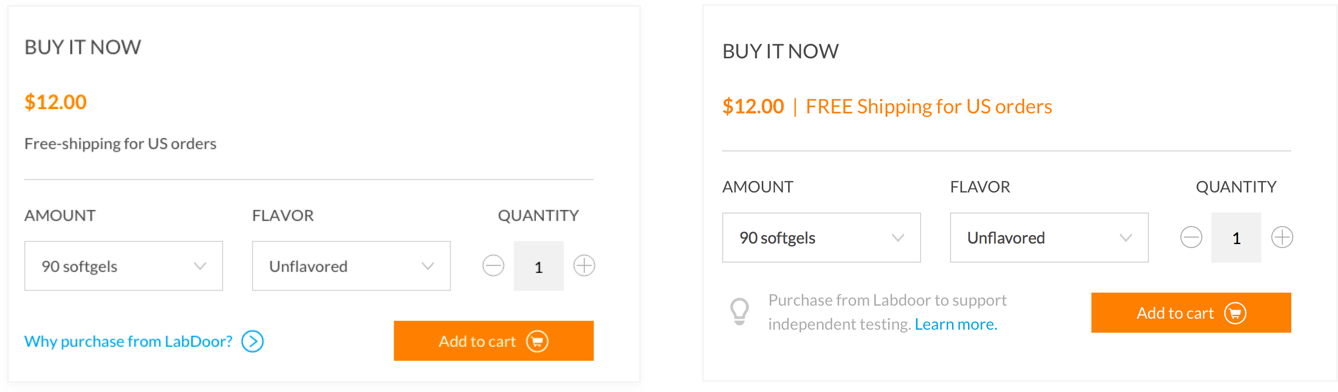
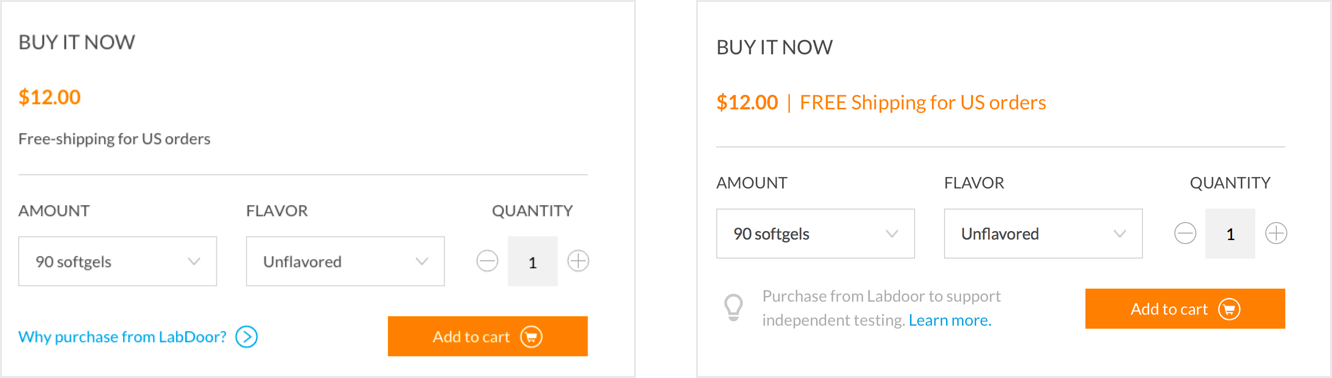
Testing out labdoor page, putting 60% of the content

diff --git a/labdoor.html b/labdoor.html
@@ -57,9 +57,9 @@ $(document).ready(function() {
             <a href="index.html">Sherzod</a>
         </div>    
           <ul id="ulnav" style="font-weight:700;">
-            <a  class="nav" href="#work"><li><b>WORK</b></li></a> 
-            <a  class="nav" href="http://sherzod.co/index.html#about"><li><b> ABOUT</b></li></a> 
-            <a  class="nav" id="contact" href="mailto:sherzoduix@gmail.com"><li><b>CONTACT</b></li></a>
+            <a  class="nav" href="#work"><li class="n"><b>WORK</b></li></a> 
+            <a  class="nav" href="http://sherzod.co/index.html#about"><li class="n"><b> ABOUT</b></li></a> 
+            <a  class="nav" id="contact" href="mailto:sherzoduix@gmail.com"><li class="n"><b>CONTACT</b></li></a>
           </ul>
     </div> 
   </div>
@@ -78,12 +78,12 @@ $(document).ready(function() {
 
     </div> -->
 
-    <div class="row">
-      <p class="four columns" style="text-align:left; padding-left:;"> 
+    <div class="row" style="margin-bottom: -2%;">
+      <p class="four columns" style="text-align:left; margin-right:8%;"> 
         <b class="t">ROLE:</b>
         <br>Product Designer
       </p>
-      <p class="three columns" style="text-align:left; padding-left:6%;">
+      <p class="three columns" style="text-align:left; ">
         <b class="t">DATES:</b> 
         <br>
         2015-2016
@@ -92,48 +92,158 @@ $(document).ready(function() {
 
     <div class="nine columns">  
       <h3>About Labdoor</h3>     
-      <h5 class="h5">The Problem</h5>
+      <h5 class="h5 row">The Problem</h5>
       <p class="">
         If you’re trying to find a supplement in the US you may end up with a low quality and sometimes harmful product. The problem is that supplements are generally considered a safe substance by FDA, thus have low quality control standard.
       </p>
       <p class=""> 
         <a class="u" href="http://thenextweb.com/apps/2014/08/01/best-ios-apps-july/">Labdoor</a> is a supplement marketplace. The goal is to be the resource where people go to find, research and buy the best supplements. Labdoor tests supplements for quality and ranks them so it’s easier for a consumer to choose the best one.
       </p>
-      <h5 class="h5">My Role</h5>
+      <h5 class="h5 row">My Role</h5>
       <p>
-        At Labdoor I was involved in designing various project around the product. From redesigning the entire enterprise website and improving the current consumer site, to desining logos, infographics and print. It was a somewhat fun and unusual experience for me because I got to work on a lot of little projects around the product rather than focusing on one core product. I will try to summarize some of the major projects I’ve worked on at Labdoor.
+        At Labdoor I was involved in designing various project around the product. From redesigning the entire enterprise website and improving the current consumer site, to designing logos, infographics and print. It was a somewhat fun and unusual experience for me because I got to work on a lot of little projects around the product rather than focusing on one core product. I will try to summarize some of the major projects I’ve worked on at Labdoor.
       </p>
       <h3>Current Website Improvements </h3>
       <p>
-        When I joined, the website was just redesigned. But as we know, even after a fresh redesign we can still find a few of flaws/defects/shortcomings. Category and product pages felt a little messy, lacked focus and guidance. We investigated further and validated our assumtions through internal and external feedback, and user research. We found a few things that needed to be fixed on our product page and category page.
+        When I joined, the website was just redesigned. But as we know, even after a fresh redesign we can still find a few of flaws/defects/shortcomings. Category and product pages felt a little messy, lacked focus and guidance. We investigated further and validated our assumptions through internal and external feedback, and user research. We found a few things that needed to be fixed on our product page and category page.
       </p> 
       <img class="" src="images/labdoor-w-product-before.png"></img>
       <h5 class="captionbottom"><center>Before</center></h5>
       <p>
-        I noticied our product page had way too many buttons and features. Each button looked like a primary button on the page. The buttons were fighting for attention while only a few of them serving a real purpose. Due to engineering and time constraints we weren’t able to remove all of them at once. As a quick fix, we removed fill from the secondary buttons so they draw less attention to help the user navigate towards promiment actions on the page.
+        I noticed our product page had way too many buttons and features. Each button looked like a primary button on the page. The buttons were fighting for attention while only a few of them serving a real purpose. Due to engineering and time constraints we weren't able to remove all of them at once. As a quick fix, we removed fill from the secondary buttons so they draw less attention to help the user navigate towards prominent actions on the page.
       </p>
       <img class="" src="images/labdoor-w-product-after.png"></img>
       <h5 class="captionbottom"><center>After</center></h5>
       <p>
-        For many people it was unclear why buy through Labdoor and pay extra. The explanation needed to be a little more informative. Some people kept asking if we offer free shipping. Although we had the text “Free shipping” right under the price tag, we had to make sure to make it's easily seen as well. While researching similar interaction in other products I’ve found out that almost any e-commerse website uses “FREE Shipping” - the word “free” is capitalized. Changing that little detail - putting it on the same line with price tag, and switching color - really made a diffrence. Since the change, we haven’t heard of any compalaints and confusions.
+        For many people it was unclear why buy through Labdoor and pay extra. The explanation needed to be a little more informative. Some people kept asking if we offer free shipping. Although we had the text “Free shipping” right under the price tag, we had to make sure to make it's easily seen as well. While researching similar interaction in other products I’ve found out that almost any e-commerce website uses “FREE Shipping” - the word “free” is capitalized. Changing that little detail - putting it on the same line with price tag, and switching color - really made a difference. Since the change, we haven’t heard of any complaints and confusions.
       </p>
       <img class="" src="images/labdoor-w-product-free.png"></img>
       <h5 class="captionbottom"><center>Before and After</center></h5>  
       <p>
         Based on feedback it was more relevant for people to see related categories rather than related products. We've found out that even when a person sees related ranked products she is less likely to explore it, and would rather go back to see full list.
       </p>    
-
-
-
-
+      <img class="" src="images/labdoor-w-product-relatedBefore.png"></img>
+      <h5 class="captionbottom"><center>Before</center></h5>  
+      <img class="" src="images/labdoor-w-product-relatedAfter.png"></img>
+      <h5 class="captionbottom"><center>After</center></h5>  
+      <p>
+        While working on a few projects simultaneously and focusing on details, it’s important to look at a bigger picture and check basics such as accessibility and consistency. We always make sure all changes perform well across web and mobile devices as well as different browsers.
+      </p> 
+    </div>
+      <img class="u-full-width" src="images/labdoor-w-responsive.png"></img>
+    <div class="nine columns">
+      <p>
+      Last but not least, new supplement categories are released every 6-8 weeks. Each one needs new custom icon. Here is are some of these icons I’ve designed for categories.
+      </p>
+      <img class="" src="images/labdoor-w-icons.png"></img>
+      <h5 class="captionbottom"><center></center></h5>  
+    </div>
+    <div class="nine columns">
+      <h3>Magazine</h3>
+    </div>
+      <img class="u-full-width column" style="margin-bottom:1.4%;" src="images/labdoor-infogarphics.png"></img>
+    <div class="nine columns">  
+      <p>
+        Magazine is Labdoor’s online resource to educate and inform people. It’s made in collaboration with editor and researcher at Labdoor. Along the way we have produced a number of infographics, science researches and data visualizations. Having no experience with infographic before, it was great not only to learn and practice data visualization design but also to educate myself on many health related topics.
+      </p>
+      <img class="" src="images/labdoor-garciniaChart.png"></img>
+    </div>
+    <div class="nine columns"> 
+      <h3>Print</h3>
+      <p>
+        <em>(Yay, I got to practice print design!)</em>
+      </p>
+      <p>
+        Haven’t been designing for print for over 5 years it was a exciting to get back at it and remind myself how to do it. Working on print makes me appreciate how spoiled we are with pushing digital products without making sure things are done 100% right. Hey, we can always go back and re-do it, then push it live again, right?
+      </p>
+      <p>
+        Print is quite the opposite. Check your work 700 times before sending to print shop. Mistakes are not allowed.
+      </p>
+      <p>
+        As for the process - it’s somewhat similar to my digital design workflow, but as mentioned earlier - the handoff process is quite different. First, understand the message we’re conveying with the brochure, understand the problem and the context. Research the best way to execute, best practices, best ways to structure the content. Then wireframe, explore different layout, get feedback, execute, team feedback, iterate, ship.  (I’m ridiculously summarizing here.)
+      </p>
+      <img class="" src="images/labdoor-cover-iterations.png"></img>
+      <h5 class="captionbottom"><center>Brochure cover iterations</center></h5>
+      <p>
+        After we’ve decided on copy, content structure, and had a sense for visual direction it was important to iterate and explore to find best layout to present the content. I’ve done most of the work of the work in Illustrator and polished design details with InDesign.
+      </p>
+      <img class="u-full-width" style="" src="images/labdoor-brochureFinals.png"></img>
+      <h5 class="captionbottom"><center>Final Results</center></h5>
+      <h5 class="h5">Constraints and Limitations</h5>
+      <p>
+        One of the challenges while designing the brochure was trying to put all the content on a somewhat limited amount of space. How can we have all the text and the graphics on just a few pages? It came down to prioritize either content or aesthetic and readability. We decided to reduce the font size and go with full page width lines of text, but it was worth it to properly convey the message.
+      </p>
+      <h5 class="h5">Seal of Approval</h5>
+      <p>
+        To earn consumers’ trust, supplement companies reach out to Labdoor to get certification which comes with Labdoor’s seal of approval. That’s one the ways Labdoor monetize. Labdoor already had a small round seal, but recently Labdoor has started offering different types of testing, thus more seals for each testing program. I’ve researched and considered designing product seals that you see on supplement and prescription medication. We were considering a few variations of the seals that you can see below. To skip the details I will jut say - the goal of the seal is to represent it’s purpose, the program while being consistent with the brand and look good with a few Labdoor seals together.
+      </p>
+      <img class="" src="images/labdoor-sealIterations.png"></img>
+      <h5 class="captionbottom"><center>Making seal iterations, and picking the best ones</center></h5>
+      <img class="" src="images/labdoor-seals-OriginalPuritySport@2x.png"></img>
+      <h5 class="captionbottom"><center>Final results</center></h5>
+    </div>
+    <div class="nine columns">
+      <h3>Enterprise Website</h3>      
+      <p>
+        Since I’ve joined, Labdoor grew from 3 million unique yearly visitors to 7 million. As Labdoor grew, we’ve developed new services and new ways companies can test with Labdoor to get their product certified. Our old enterprise website became outdated, and needed to be updated with new content. We also took this opportunity to experiment new look and feel of Labdoor.
+      </p>
+      <img class="" src="images/labdoor-w-oldEnterprise.png"></img>
+      <h5 class="captionbottom"><center>Old enterprise website</center></h5>
+      <p>
+        <b>The goal of the new Labdoor enterprise website is to clearly state Labdoor’s testing programs and to encourge a potential client to submit a supplement to test. Besides that show the benefits of each testing option and difference between each other. Remove all unncessary old content to reduce cognitie load. </b>
+      </p>
+      <p>
+        After many brainstorms and discussions with our product team we have figured the best way to frame/state/say about our new services in ways that are understanding? 
+      </p>
+      <p>
+        We considered many factors and uses cases when a person lands on Labdoor for Brands. To name a few considerations:
+      </p>
+      <p style="padding-left: 3%; line-height:1.8;">
+        • Where people are coming from?
+        <br>
+        • How did they found out about Labdoor?
+        <br>
+          •   What are their expectations about the product?
+        <br> 
+        •   What’s the message we’re sending?
+        <br>
+        •   How can effectively introduce our brand and testing options we offer?
+        
+        •   Is the content presented in a logical way?
+        <br>
+        •   Does the layout and presentation make the page easy to scan? Are we guiding the reader's attention?
+        <br>
+        •   What’s currently missing?
+      </p>
+      <p>
+        Interviewing our current as well as potential clients and getting early feedback answered many of our questions, saved time, and elimnated designing on pure assumptions.
+      </p>
+      <h5 class="h5">Comparative Assesment</h5>
+      <img class="" src="images/labdoor-competitors.png"></img>
+      <h5 class="captionbottom"><center>Similar brands that offer supplement certifactions</center></h5>
+      <p>
+        Comperative assesment a great way to find out what customers are expecting  to see on similar product, and how competitors structure and present their message.
+      </p>
+      <p>
+        Labdoor doesn’t really have direct competition. It’s mostly indirect in one way or another. Key findings:
+      </p>
+      <p style="padding-left: 3%; line-height:1.8;"> 
+        - other services who offer some sort of certifications have old content,
+        <br>
+        - their websites is cluttered and hard to navigative
+        <br> 
+        - “disregard” for visual design and overall consistensy.
+        <br> 
+        - as for customer aquasition strategy it appears that most of them get clients through an established network from the past.
+        <br>
+      </p>
+      <p>
+        Maybe so much unnesseary text helps them establish trust? Our research showed the opposite.
+      </p>
 
 
     </div>
-
-    
-
-
-   <br>
+    <br>
     <!--
     <div class="row">
       <img class="twelve columns" src="images/3dbin-mob-1.1.png" alt="3dbin"/>

diff --git a/css/style.css b/css/style.css
@@ -41,6 +41,8 @@ a:visited {text-decoration:none;
  margin: 0 auto;
  max-width: 100% !important;
  top: 0;
+ border: 1px;
+ border-bottom-color: black;
 }
 
 body { -webkit-font-smoothing: subpixel-antialiased; } /*This is to fix the postion fixed wierd font error:*/
@@ -78,21 +80,22 @@ ul{
     font-weight: 700;
 	float: right;
 	padding-bottom:0px ;
-	padding-top:18px;
+	padding-top:17px;
 	margin-top:13px;
     letter-spacing:.8px;
     position: relative;
     /*left:18px;*/
  	}	
      
-li{
+li.n {
  	display:inline;
  	padding: 35px 20px 38px 25px;
  	margin-left:-3px;
  	transition:color .0s ease-out, color .1s ease-in;
  	}
 
-li:hover{
+
+li.n:hover{
         color:#A4B4CD;
         transition:.3s;
 		}
@@ -120,7 +123,7 @@ h3 {
 	font-weight: 700;
 	padding-left:;
 	margin-bottom:5%;
-	margin-top:2%;
+	margin-top:4%;
 	color:#363636;
 }
 
@@ -132,6 +135,7 @@ h5.h5 {
 	margin-bottom:;
 	margin-top:-2%;
 	opacity:.5;
+	text-align: left!important;
 	
 }
 
@@ -141,7 +145,9 @@ p {
 	line-height:;
 }
 
-
+.u-full-width{
+	width: 1800px;
+}
 
 /*WORK------------------------------ WORK ------------------------------*/
 
@@ -477,6 +483,10 @@ h5 {
 	font-size:14px;
 	margin-bottom: -8%;
 	text-align: center;
+}
+
+p {
+	font-size: 1.6rem;
 }
 
 .me {

diff --git a/index.html b/index.html
@@ -188,7 +188,7 @@ $(document).ready(function() {
     
         <div class="aboutme">
         <p id="">
-          <center style="margin-top:-8%;"> <b> My name is Sherzod. I'm a designer. </b> </center> 
+          <center style="margin-top:-8%;"> <b> My name is Sherzod. I'm a designer.👋</b> </center> 
           <br>
           I live in San Francisco, California. I focus on designing simple and intuitive interfaces. Sometimes I do illustration as a hobby. I enjoy reading about design and self-development.
         </p>
